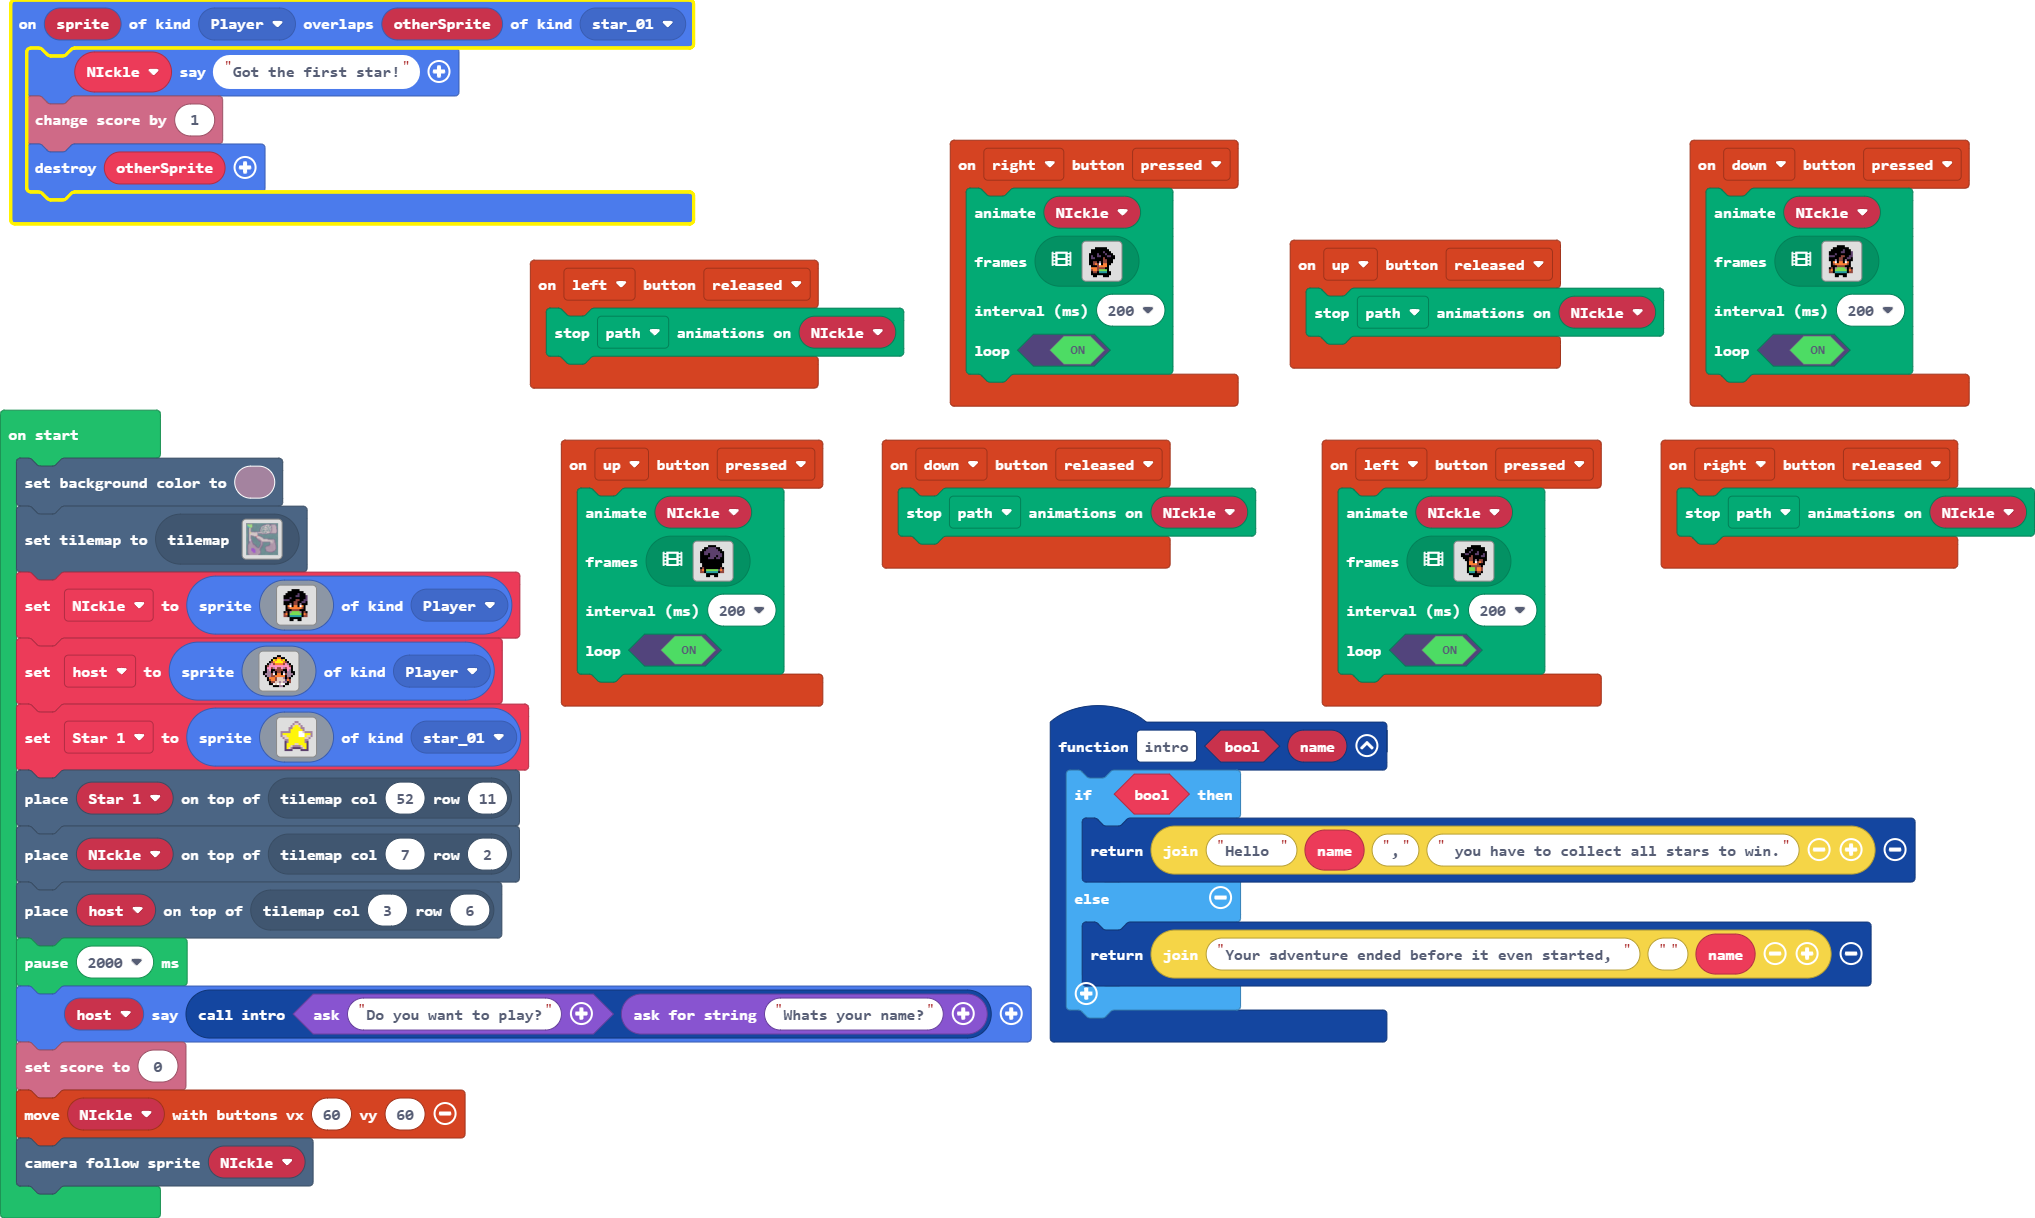
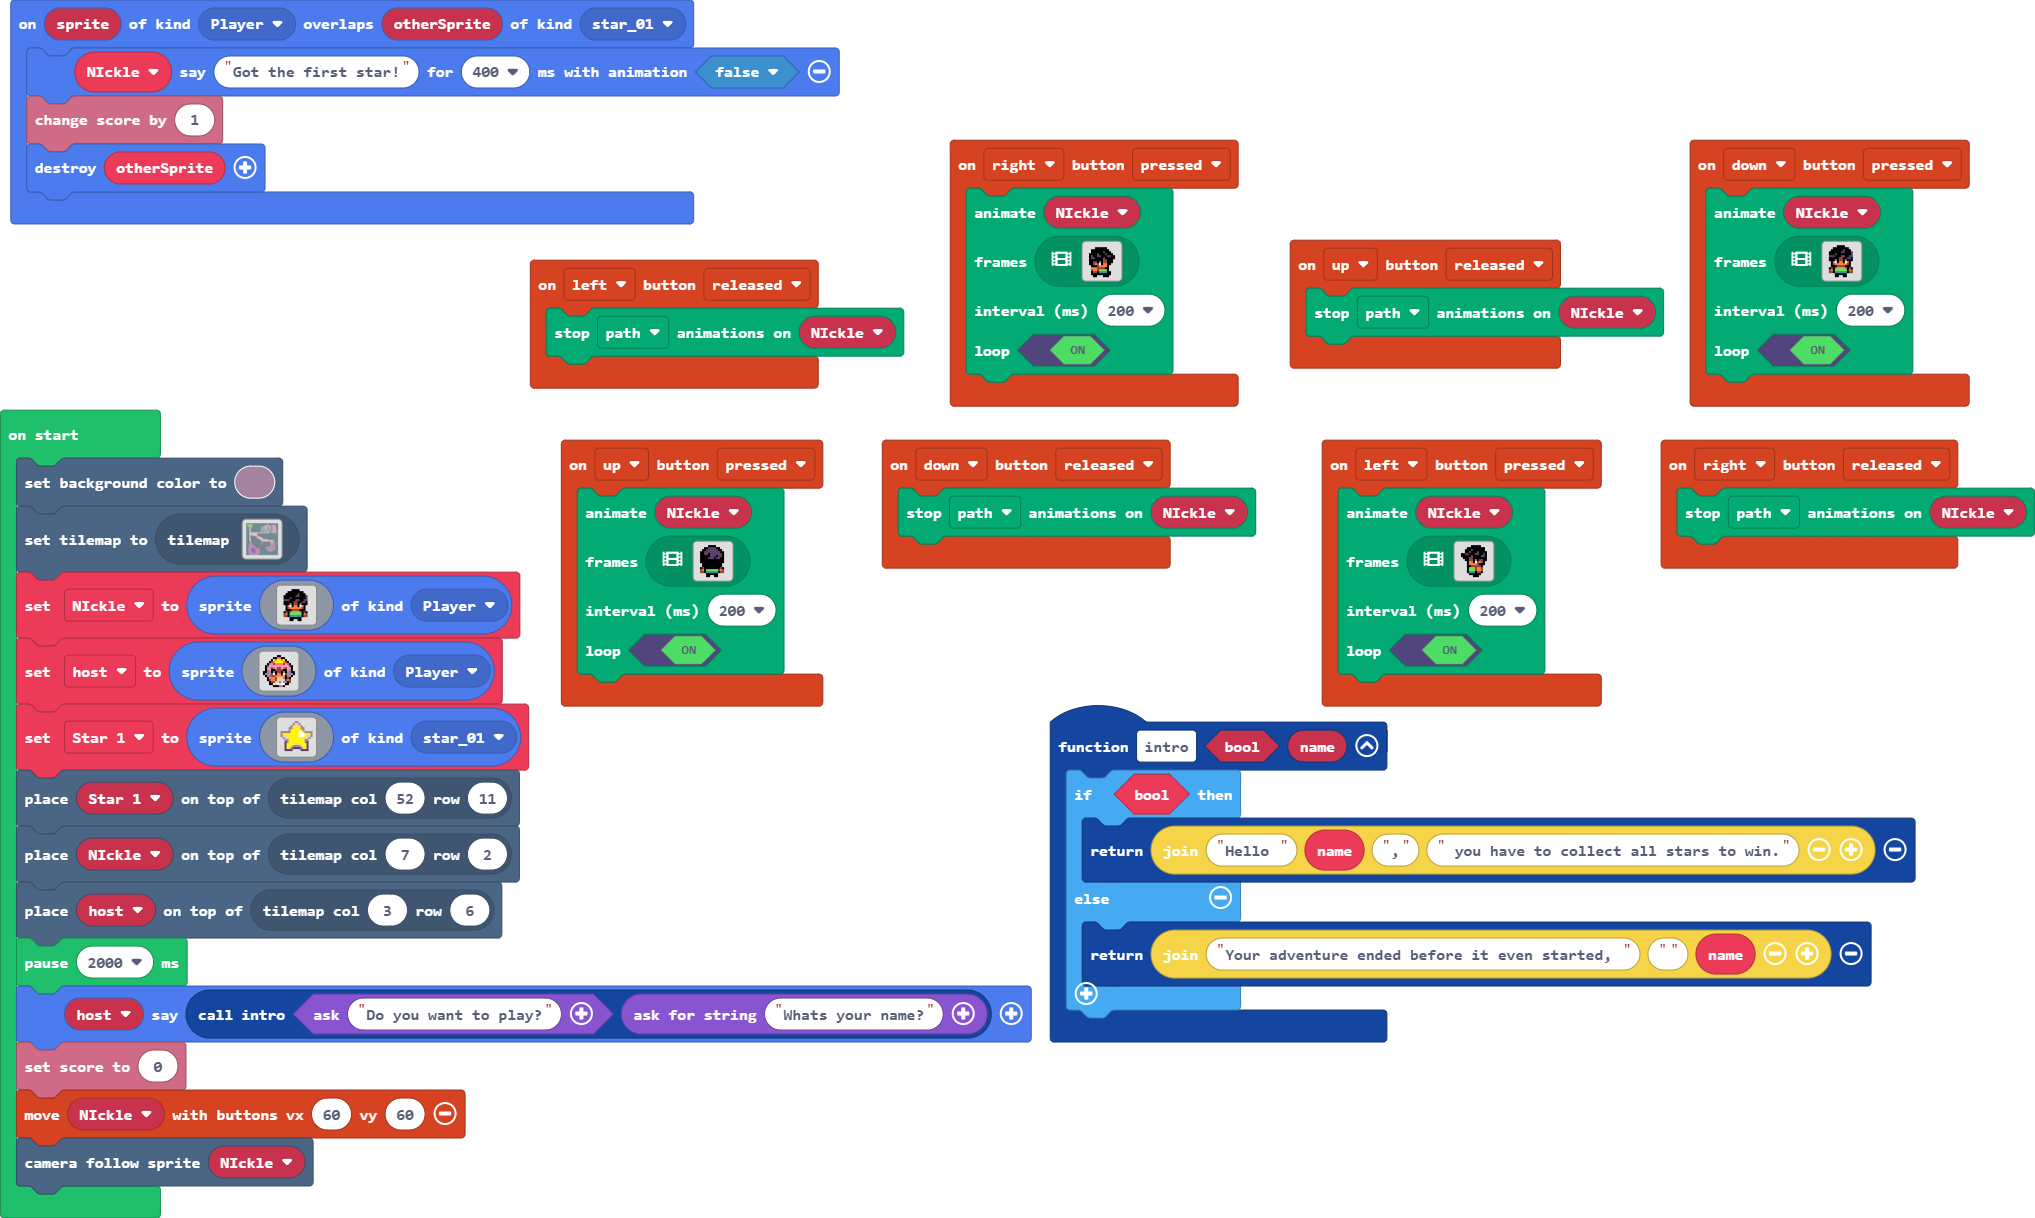
Update main.blocks, main.ts

Changed region(s): [[0.0, 0.0, 0.4334, 0.1872]]

diff --git a/main.ts b/main.ts
@@ -198,7 +198,7 @@ controller.up.onEvent(ControllerButtonEvent.Released, function () {
     animation.stopAnimation(animation.AnimationTypes.MovementAnimation, NIckle)
 })
 sprites.onOverlap(SpriteKind.Player, SpriteKind.star_01, function (sprite, otherSprite) {
-    NIckle.sayText("Got the first star!")
+    NIckle.sayText("Got the first star!", 400, false)
     info.changeScoreBy(1)
     sprites.destroy(otherSprite)
 })
